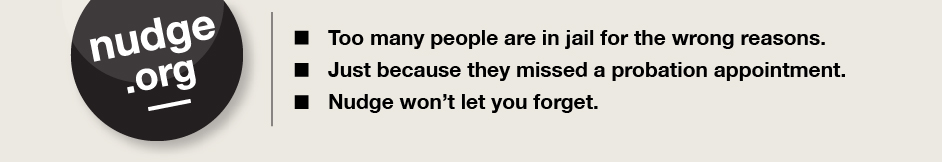
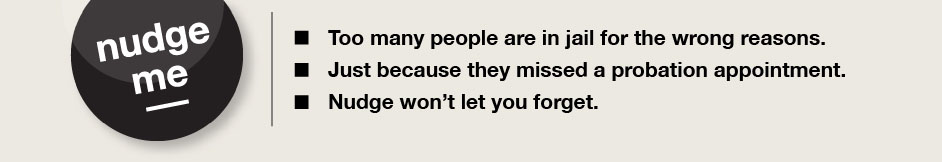
Application name change

diff --git a/config/initializers/constants.rb b/config/initializers/constants.rb
@@ -1,1 +1,1 @@
-APPLICATION_NAME = 'Nudge.org'
+APPLICATION_NAME = 'NudgeMe.org.uk'
